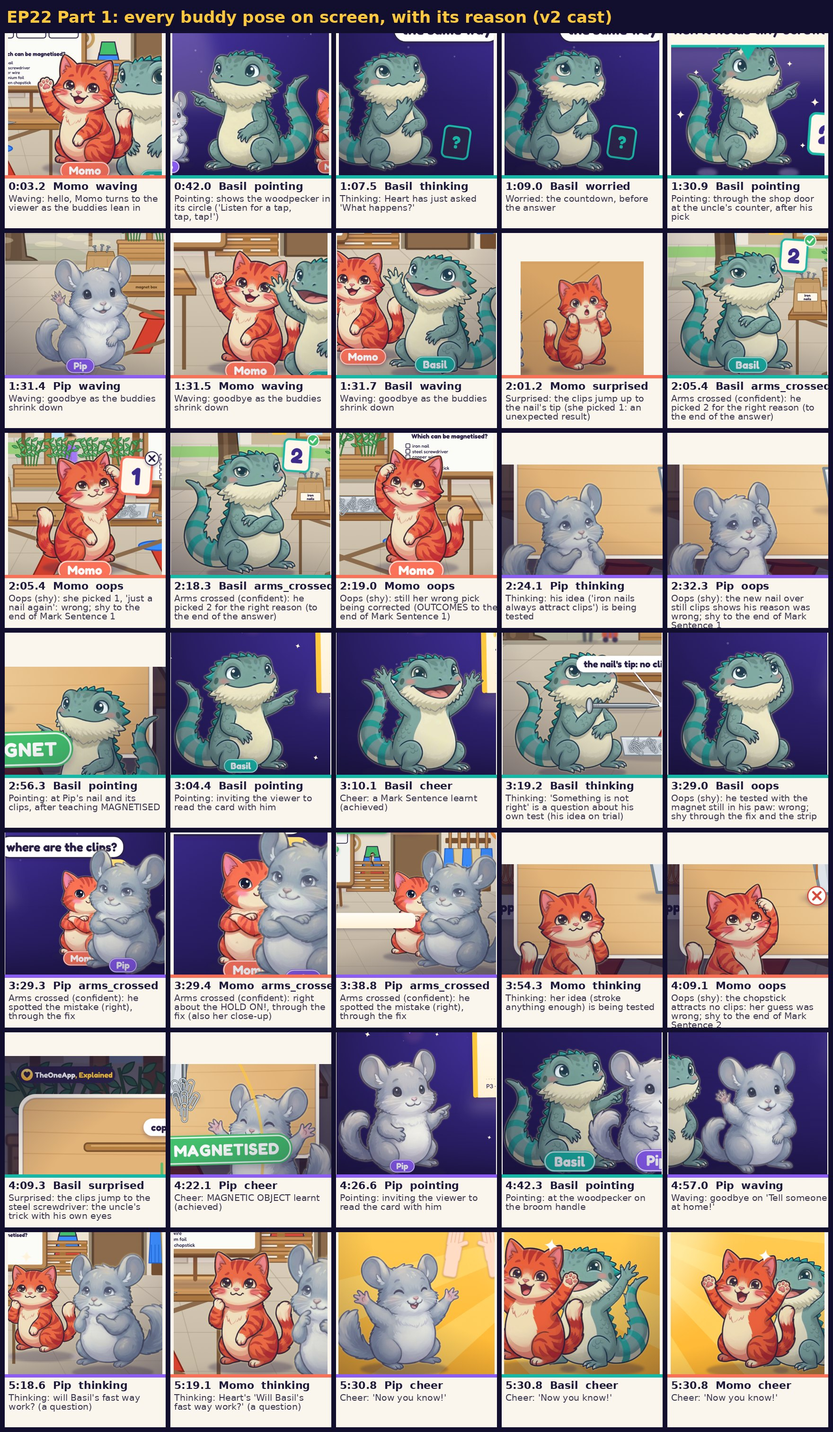
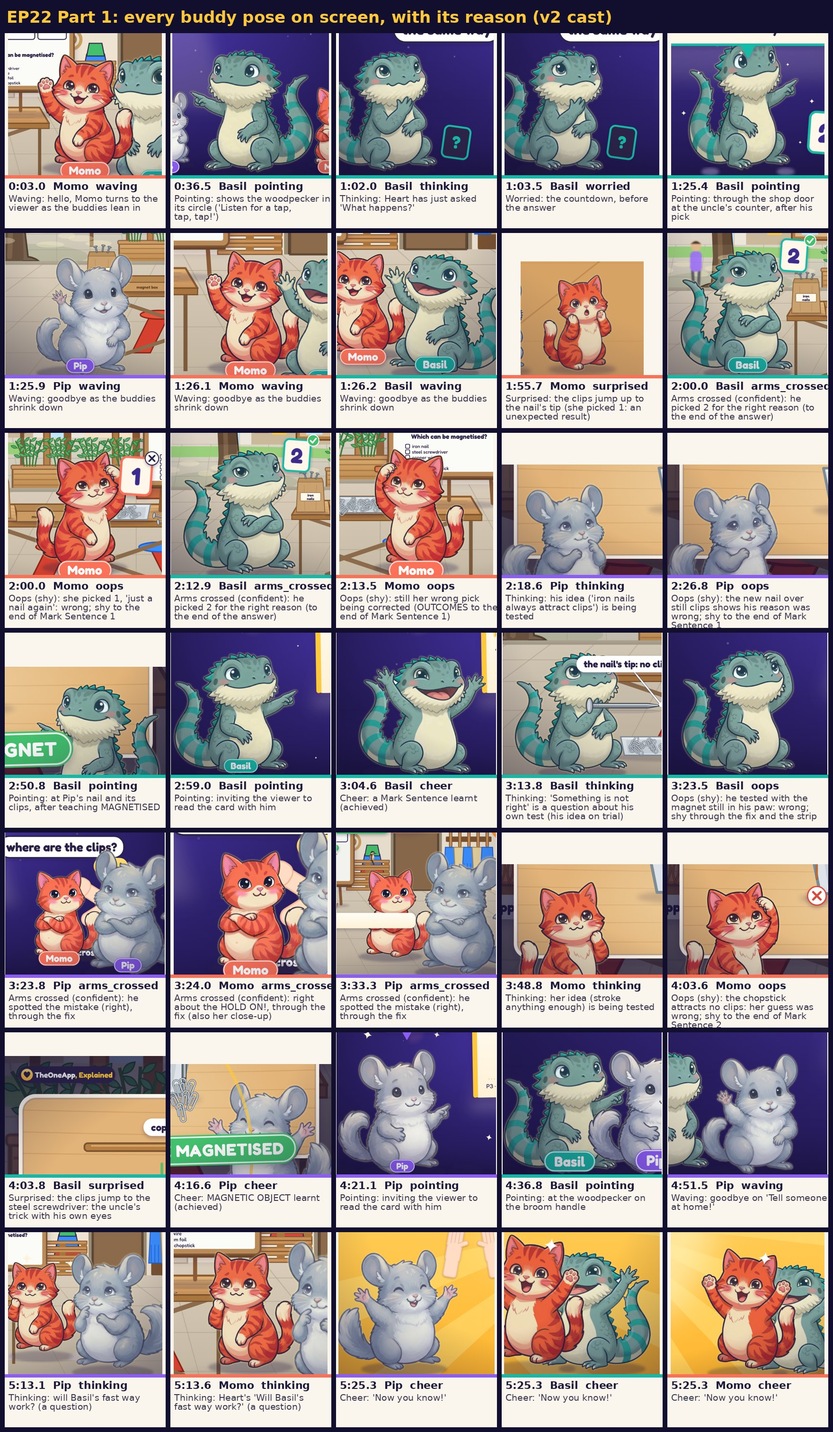
EP22 Part 1 speaks within the first second: Heart from 0.825 s over the cold open (was 6.3 s); Part 1 re-rendered 5:29.0; review pack, chapters, app moments moved; STATE note for the next episode's Stage 1
Claude-Session: https://claude.ai/code/session_017vcscXTweEdXk7zMTDrzTD

diff --git a/production/workspace/explained2/ep22/highlights.py b/production/workspace/explained2/ep22/highlights.py
@@ -2,7 +2,7 @@
 import os, subprocess
 from PIL import Image, ImageDraw, ImageFont
 H = os.path.dirname(os.path.abspath(__file__)); F = "/usr/share/fonts/truetype/dejavu/DejaVuSans-Bold.ttf"; ft = ImageFont.truetype(F, 34)
-S = [(1, 3.4, "P1 0:03  Cold open, Heart already speaking: the hardware shop; Pip strokes the nail, head to tip, lift away"),
+S = [(1, 3.4, "P1 0:03  Cold open, Heart speaking from 0.8 s: the hardware shop; Pip strokes the nail"),
      (1, 99.0, "P1 1:39  Be the iron nail: the giant magnet's red end lands on your head"),
      (1, 117.1, "P1 1:57  The clips jump up and cling to your tip"),
      (1, 150.5, "P1 2:30  Look closer: a new nail clicks onto the magnet, but it is not a magnet"),
